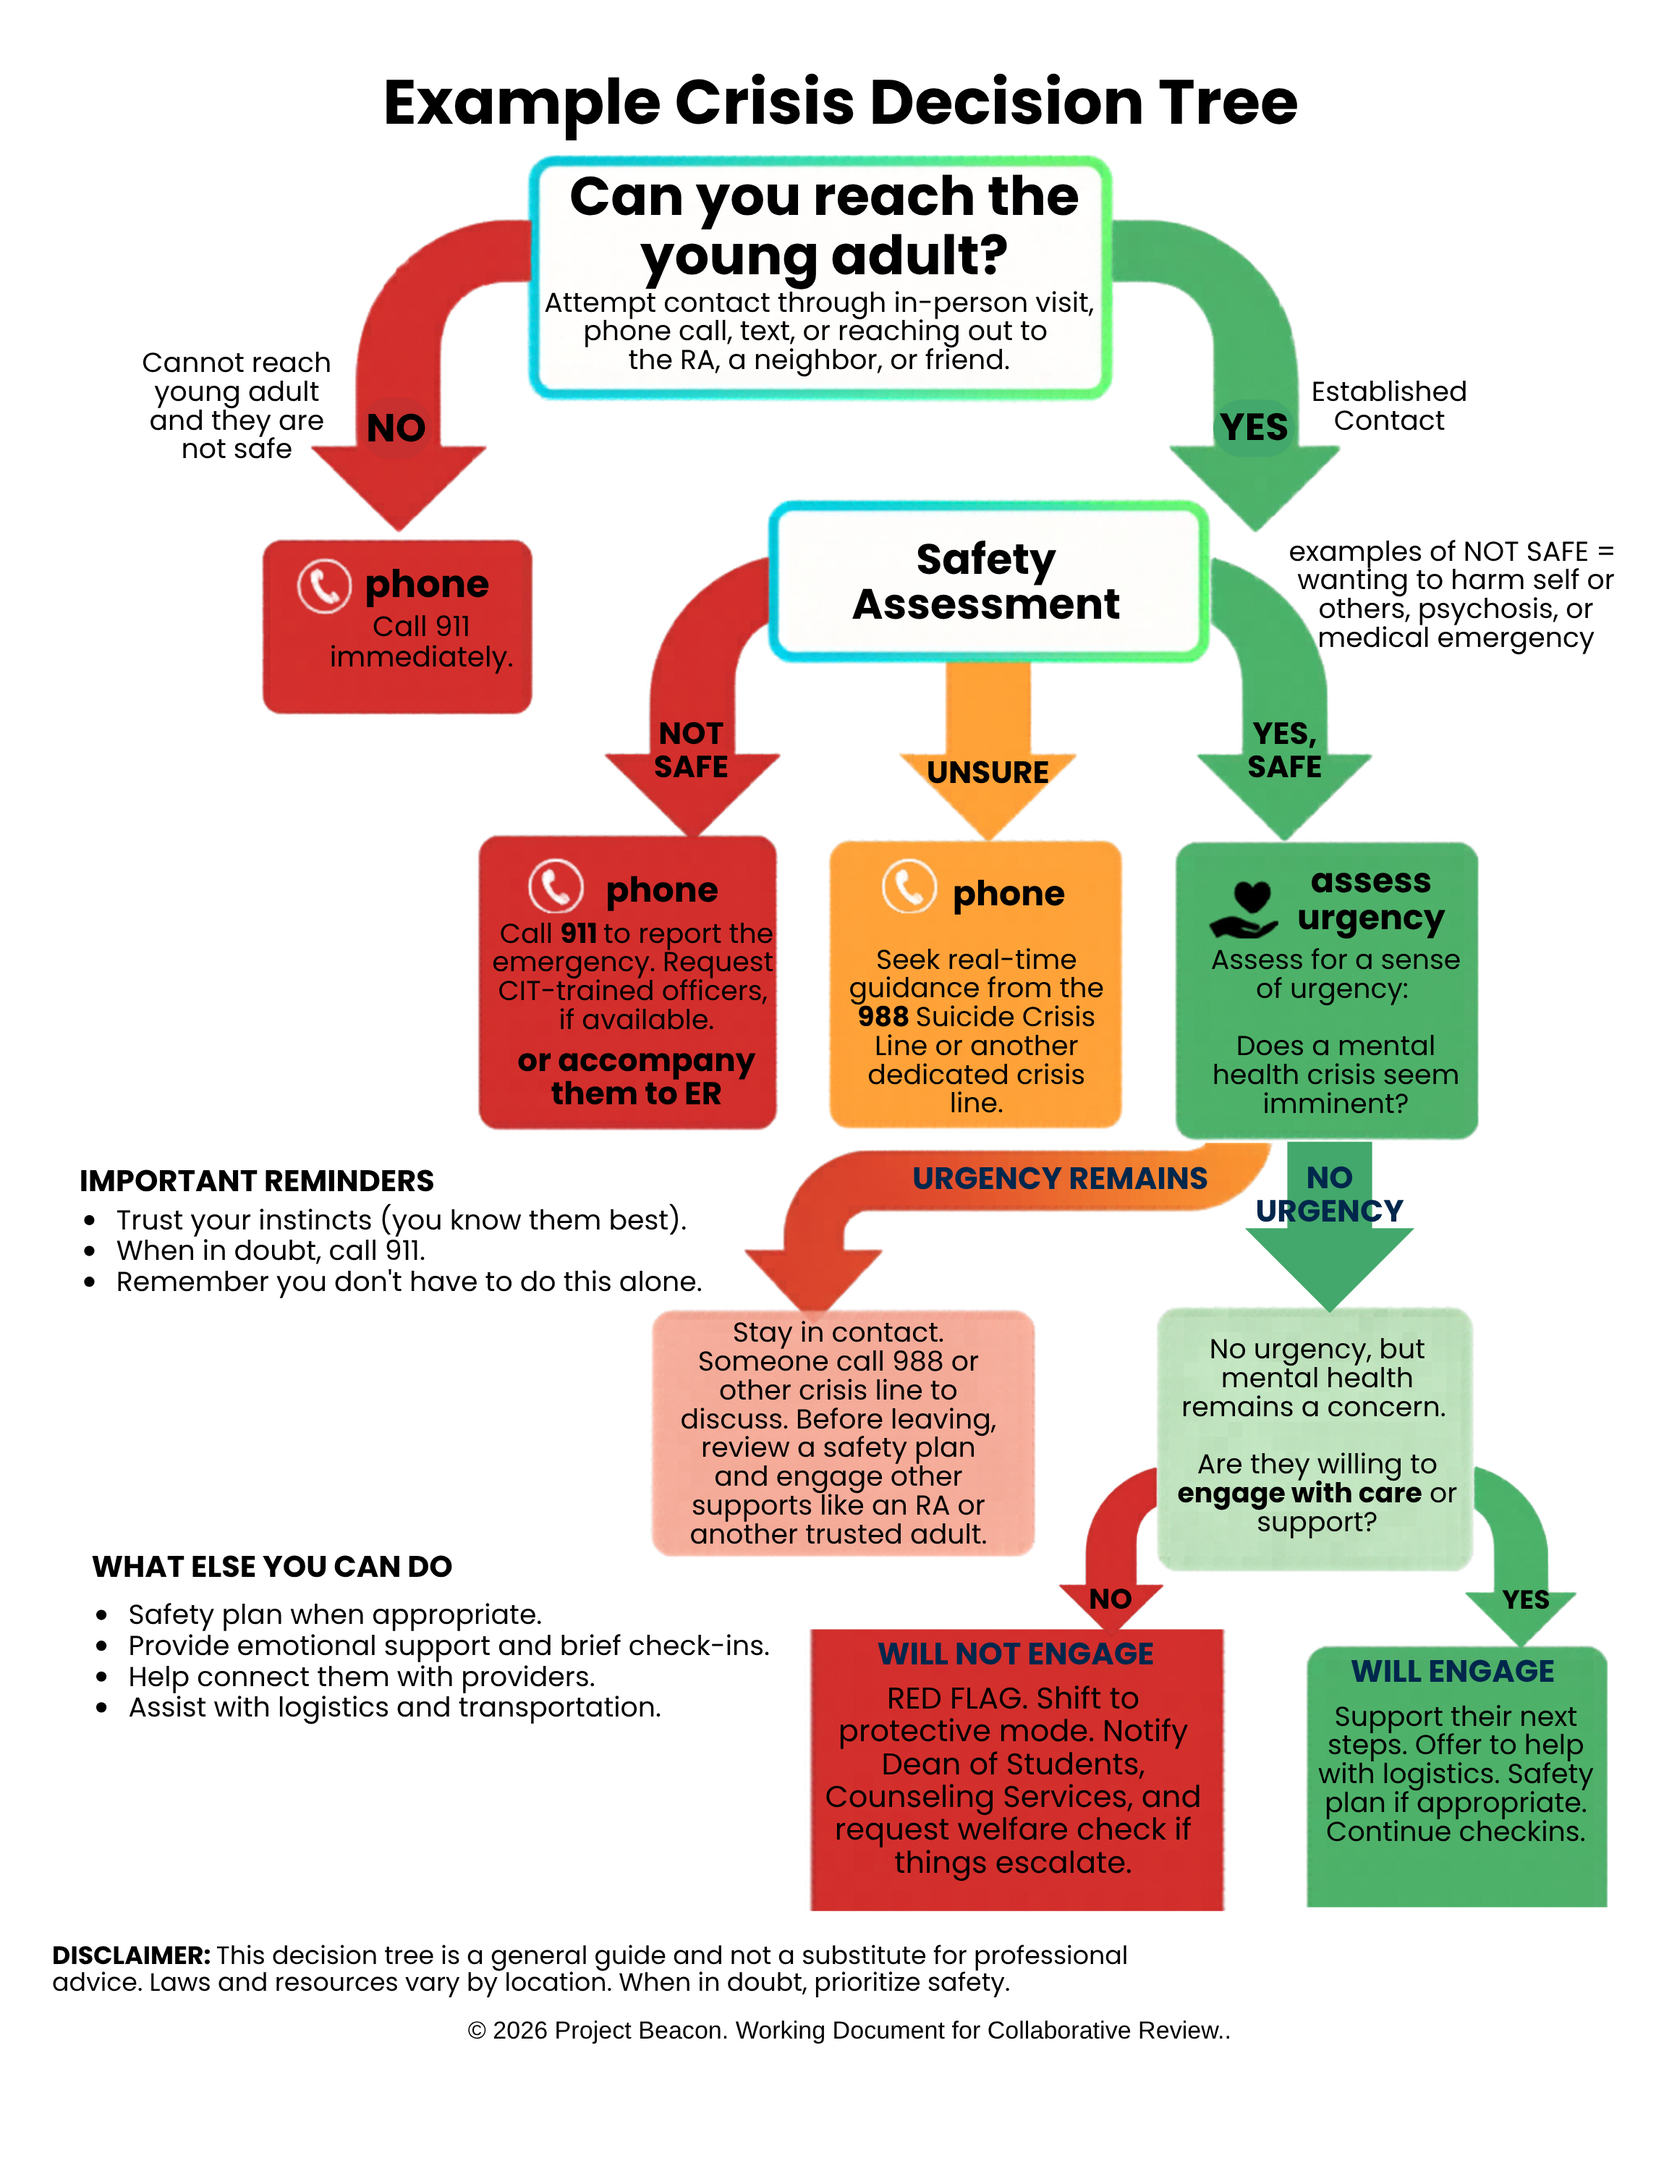
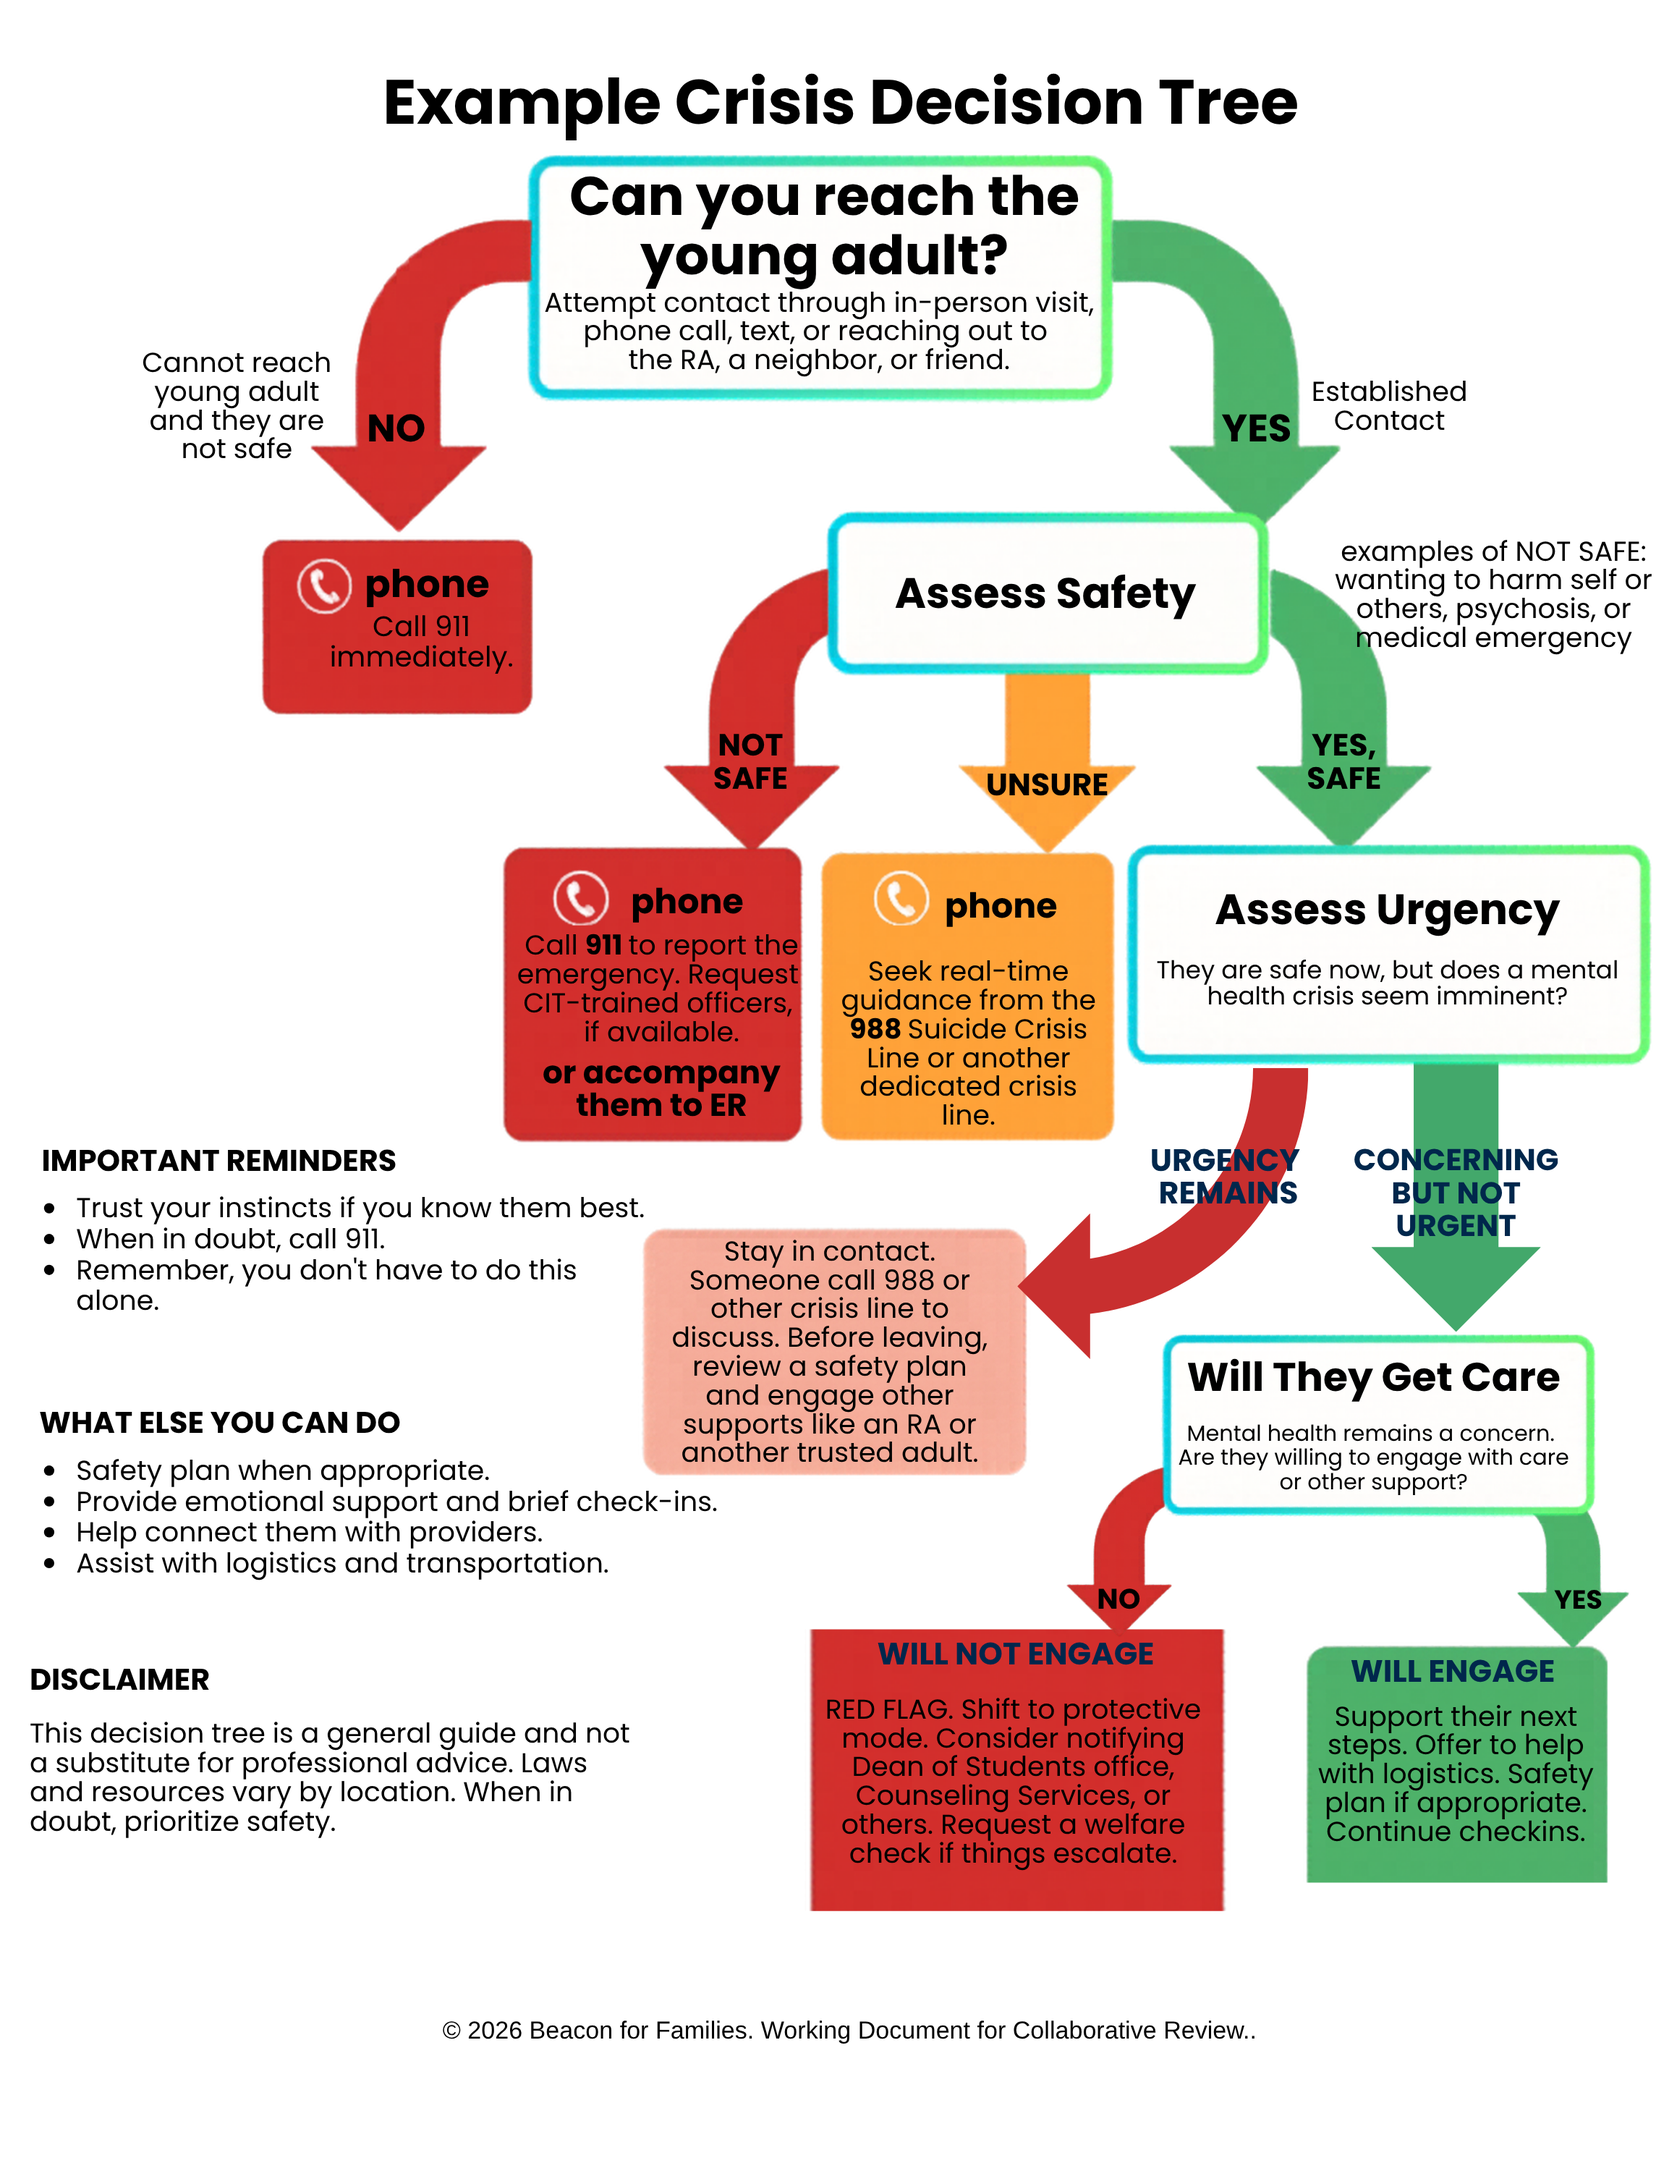
decision tree format changes and name change Project Beacon to Beacon for Families and related edits.

diff --git a/src/components/home-intro.tsx b/src/components/home-intro.tsx
@@ -4,6 +4,7 @@ import { ArrowRight, Phone } from "lucide-react";
 import { SearchBox } from "@/components/search-box";
 import { TopicCards } from "@/components/topic-cards";
 import { getSection, paper } from "@/lib/paper";
+import { site } from "@/lib/site";
 
 const START_HERE = [
   {
@@ -57,17 +58,19 @@ export function HomeIntro() {
       <section className="home-hero border-b border-border/70">
         <div className="mx-auto flex max-w-6xl items-start gap-4 px-4 py-8 sm:gap-6 sm:px-6 sm:py-10">
           <div className="min-w-0 max-w-2xl flex-1">
-            <p className="text-sm font-medium tracking-wide text-primary uppercase">
-              {paper.eyebrow}
+            <p className="text-base leading-snug text-foreground/80">
+              {paper.subtitle}
             </p>
-            <h1 className="mt-2 font-heading text-3xl leading-[1.15] tracking-tight text-foreground sm:text-4xl">
-              There is a lot to figure out. Let's start here.
+            <h1 className="mt-3 font-heading text-3xl leading-[1.15] tracking-tight text-foreground sm:text-4xl">
+              There is a lot to figure out.
+              <br />
+              Let&apos;s start here.
             </h1>
             <p className="mt-3 text-foreground/80">
               Whether you’re new to mental health crises or have been navigating the system for years, this site gathers key resources and considerations for supporting a young adult, ages 18–25.
             </p>
             <p className="mt-3 text-foreground/80">
-              Families, friends, and others: start from a situation listed below, use the search bar, or browse the topics.
+              Start from a situation listed below, use the search bar, or browse the topics.
             </p>
             <p className="mt-3">
               <Link
@@ -81,7 +84,7 @@ export function HomeIntro() {
                 href="/feedback"
                 className="text-sm text-primary underline-offset-4 hover:underline"
               >
-                Help improve Project Beacon
+                Help improve {site.name}
               </Link>
             </p>
             <div className="mt-6 max-w-xl">

diff --git a/src/app/feedback/page.tsx b/src/app/feedback/page.tsx
@@ -6,15 +6,15 @@ import { pageDescriptions } from "@/content/page-descriptions";
 import { site } from "@/lib/site";
 
 export const metadata: Metadata = {
-  title: "Help improve Project Beacon",
+  title: { absolute: `Help improve ${site.name}` },
   description: pageDescriptions.feedback,
 };
 
 const NOTES = [
-  "Project Beacon is not a crisis line or a source of personal or medical advice. It provides general strategies drawn from collective lived experiences.",
-  "Project Beacon cannot address a personal situation.",
+  `${site.name} is not a crisis line or a source of personal or medical advice. It provides general strategies drawn from collective lived experiences.`,
+  `${site.name} cannot address a personal situation.`,
   "Do not include personal, medical or legal records in your feedback. This is not a confidential email, and I cannot maintain confidential information. You do not need to share private details for your feedback to be useful.",
-  "Please keep your feedback focused on the site, its information, and your experience using it. Thank you for helping make Project Beacon better.",
+  `Please keep your feedback focused on the site, its information, and your experience using it. Thank you for helping make ${site.name} better.`,
 ];
 
 const TOPICS = [
@@ -35,11 +35,11 @@ export default function FeedbackPage() {
         </Link>
       </p>
       <h1 className="mt-4 font-heading text-3xl tracking-tight text-foreground sm:text-4xl">
-        Help Improve Project Beacon
+        Help improve {site.name}
       </h1>
       <div className="mt-6 space-y-4 text-base leading-relaxed text-foreground/90">
         <p>
-          Project Beacon is a public draft and is still being revised. If
+          {site.name} is a public draft and is still being revised. If
           you’ve used the site, your feedback can help make it more useful and
           easier to navigate for the people who need it.
         </p>

diff --git a/src/content/page-descriptions.ts b/src/content/page-descriptions.ts
@@ -8,13 +8,13 @@
  * page; do not add new advice.
  */
 export const pageDescriptions = {
-  home: "A guide for parents and caregivers of college-aged young adults (18–25) on mental health crises, 911 and 988, hospitalization, HIPAA and FERPA, and limited engagement.",
+  home: "A guide for parents and families supporting a college-aged young adult through a mental health crises, 911 and 988, hospitalization, HIPAA and FERPA, and limited engagement.",
   about:
-    "This guide was written for parents and caregivers of college-aged young adults (roughly ages 18–25) who want to learn how to respond to a mental health crisis.",
+    "This guide was written for parents and families of college-aged young adults (roughly ages 18–25) who want to learn how to respond to a mental health crisis.",
   search:
     "Search this guide for HIPAA, FERPA, 988, 911, hospitalization, limited engagement, and other topics.",
   feedback:
-    "Share feedback about this guide. Project Beacon is not a crisis line or a source of personal or medical advice.",
+    "Share feedback about this guide. Beacon for Families is not a crisis line or a source of personal or medical advice.",
   "warning-signs":
     "Early warning signs can be easy to miss at this age. Young adults may mask or minimize symptoms, or seem fine while struggling.",
   "emergency-services":

diff --git a/src/components/feedback-form.tsx b/src/components/feedback-form.tsx
@@ -24,7 +24,7 @@ export function FeedbackForm() {
     ]
       .filter(Boolean)
       .join("\n\n");
-    const href = `mailto:${email}?subject=${encodeURIComponent("Help improve Project Beacon")}&body=${encodeURIComponent(body)}`;
+    const href = `mailto:${email}?subject=${encodeURIComponent(`Help improve ${site.name}`)}&body=${encodeURIComponent(body)}`;
     window.location.href = href;
   }
 
@@ -67,7 +67,7 @@ export function FeedbackForm() {
         You may also send questions, comments, and feedback to{" "}
         <a
           className="text-primary underline underline-offset-4"
-          href={`mailto:${email}?subject=${encodeURIComponent("Help improve Project Beacon")}`}
+          href={`mailto:${email}?subject=${encodeURIComponent(`Help improve ${site.name}`)}`}
         >
           {email}
         </a>

diff --git a/src/components/guide-about.tsx b/src/components/guide-about.tsx
@@ -2,6 +2,7 @@ import Link from "next/link";
 
 import { getIntroContent } from "@/lib/intro";
 import { paper } from "@/lib/paper";
+import { site } from "@/lib/site";
 
 function Html({
   html,
@@ -26,6 +27,7 @@ export function GuideAbout() {
 
   return (
     <div className="space-y-5 text-base leading-relaxed text-foreground/90">
+      <p className="text-foreground/80">{paper.subtitle}</p>
       <Html html={intro.leadHtml} />
       <div>
         <p className="mt-2">{intro.factorLead}</p>
@@ -60,7 +62,7 @@ export function GuideAbout() {
           href="/feedback"
           className="text-primary underline-offset-4 hover:underline"
         >
-          Help improve Project Beacon
+          Help improve {site.name}
         </Link>
       </p>
     </div>

diff --git a/src/lib/site.ts b/src/lib/site.ts
@@ -1,12 +1,12 @@
 import { pageDescriptions } from "@/content/page-descriptions";
+import { paper } from "@/lib/paper";
 
 /** Licensing lines from the Beacon GitHub README. */
 export const site = {
-  name: "Beacon",
+  name: "Beacon for Families",
   url: "https://beaconforfamilies.org",
-  /** Homepage browser tab and Google result title. Uses the guide eyebrow. */
-  homeTitle:
-    "When a college-age young adult is having a mental health crisis",
+  /** Homepage browser tab and Google result title. The guide byline. */
+  homeTitle: paper.subtitle.replace(/\.$/, ""),
   /** Homepage Google snippet. Edit in src/content/page-descriptions.ts. */
   description: pageDescriptions.home,
   codeLicense: "website code is shared under the MIT license",

diff --git a/src/app/not-found.tsx b/src/app/not-found.tsx
@@ -1,15 +1,17 @@
 import Link from "next/link";
 
+import { site } from "@/lib/site";
+
 export default function NotFound() {
   return (
     <div className="mx-auto w-full max-w-2xl px-4 py-16 sm:px-6">
       <h1 className="font-heading text-3xl tracking-tight">Page not found</h1>
       <p className="mt-3 text-muted-foreground">
-        That page is not part of Beacon.
+        That page is not part of {site.name}.
       </p>
       <p className="mt-6">
         <Link href="/" className="underline underline-offset-4">
-          Back to Beacon
+          Back to {site.name}
         </Link>
       </p>
     </div>

diff --git a/src/components/contents-nav.tsx b/src/components/contents-nav.tsx
@@ -1,6 +1,7 @@
 import Link from "next/link";
 
 import { topicSections } from "@/lib/paper";
+import { site } from "@/lib/site";
 import { cn } from "@/lib/utils";
 
 export function ContentsNav({
@@ -42,7 +43,7 @@ export function ContentsNav({
             href="/feedback"
             className="block rounded-md px-2 py-1 leading-snug text-muted-foreground transition-colors hover:bg-muted hover:text-foreground"
           >
-            Help improve Project Beacon
+            Help improve {site.name}
           </Link>
         </li>
         {topicSections.map((section) => {

diff --git a/src/components/site-chrome.tsx b/src/components/site-chrome.tsx
@@ -54,7 +54,7 @@ export function SiteFooter() {
             href="/feedback"
             className="text-foreground/80 underline-offset-4 hover:underline"
           >
-            Help improve Project Beacon
+            Help improve {site.name}
           </Link>
         </p>
         <p>{paper.draftNotice}</p>
